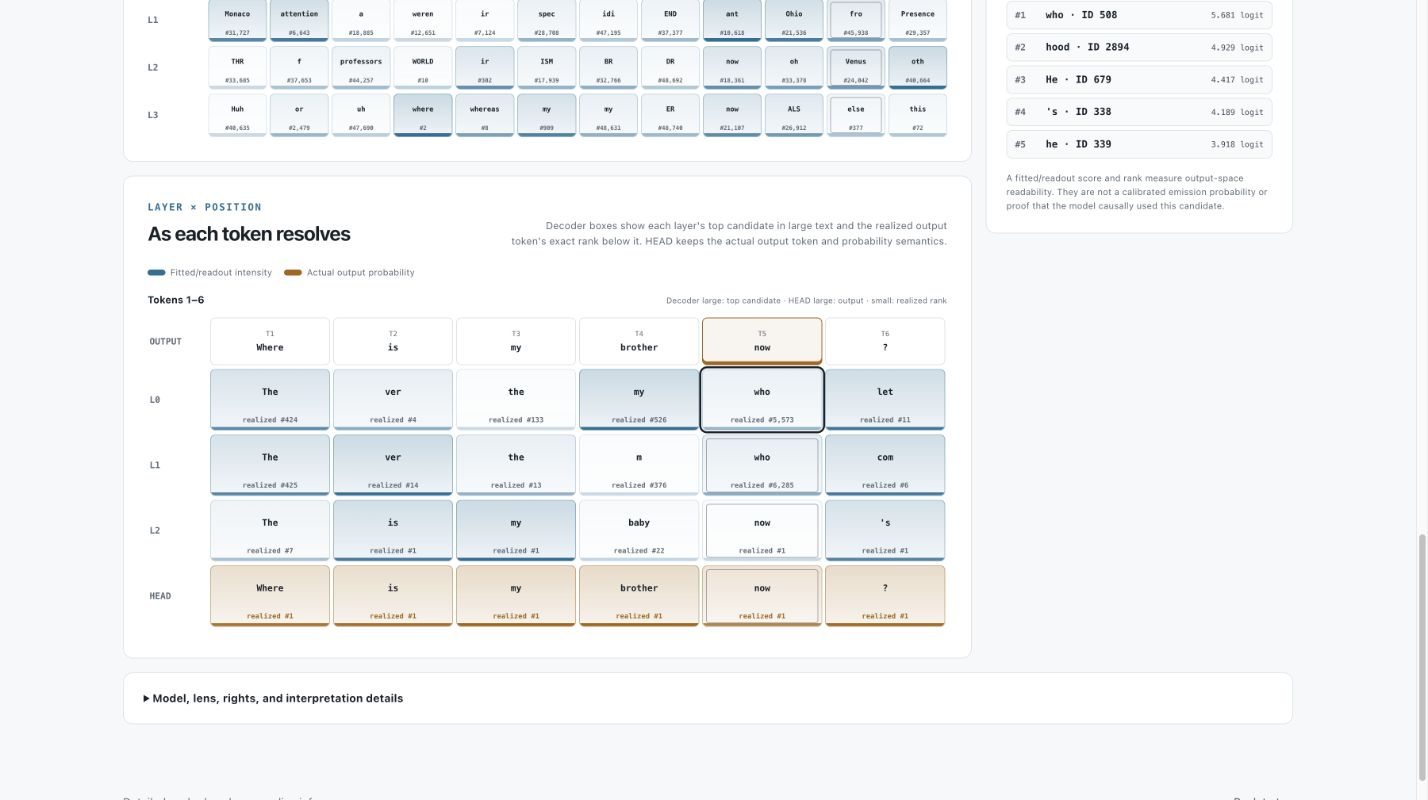
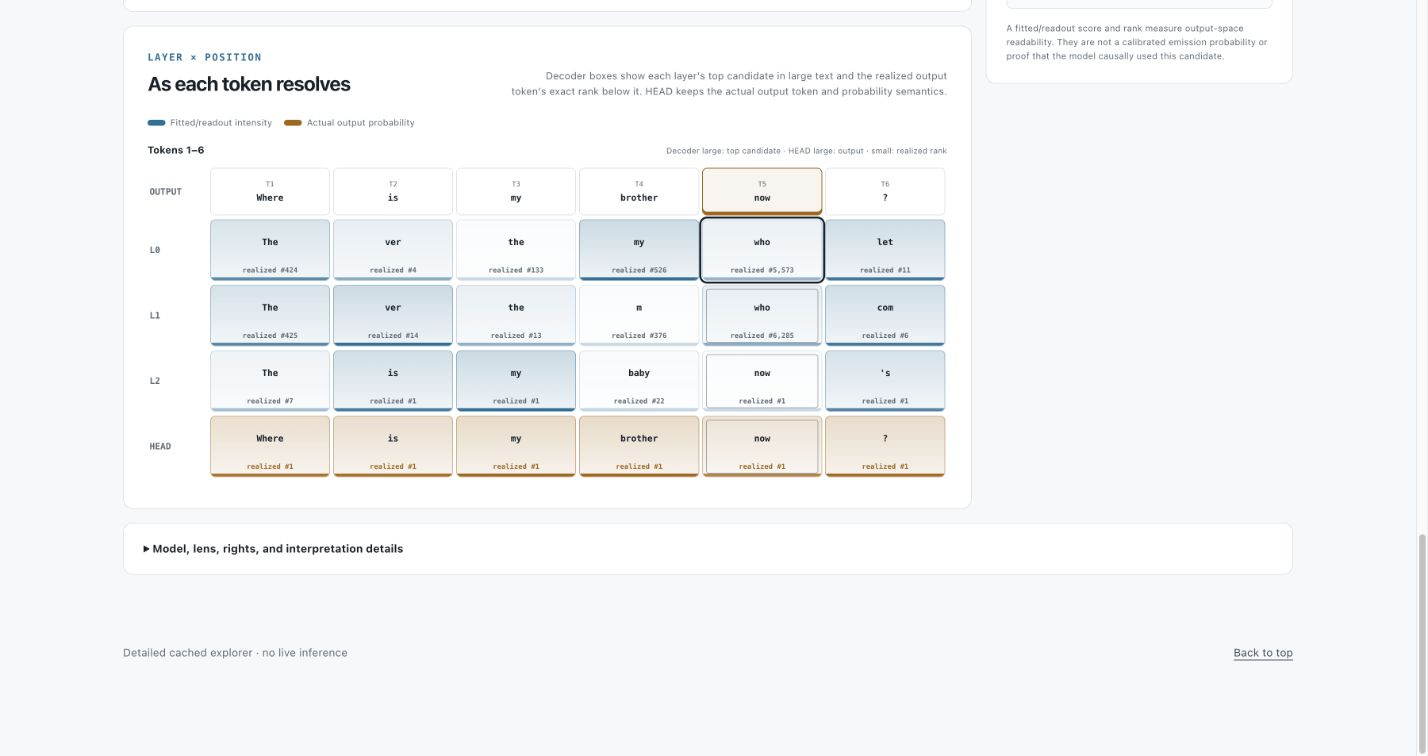
Refresh figures for 100ms ASR windows

diff --git a/notes/audio-jacobian-lens.md b/notes/audio-jacobian-lens.md
@@ -62,7 +62,7 @@ This is not a window into the model's thoughts. It is a familiar coordinate grid
 
 ### Different destinations form on different schedules
 
-In Whisper's decoder, some final words become visible surprisingly early. In one example, `door` was already ranked fourth in the first decoder layer I inspected and moved to first in the next. Other words take a longer route. In "Where is my brother now?", `now` appeared late; earlier, `who` was near the top.
+In Whisper's decoder, some final words become visible surprisingly early. In one example, `door` was already ranked fourth within the explorer's display vocabulary in the first decoder layer I inspected and moved to first in the next. Other words take a longer route. In "Where is my brother now?", `now` appeared late; earlier, `who` was near the top.
 
 It is tempting to say the model was "thinking of who." The evidence does not justify that. What it shows is simpler: lexical decisions form on different schedules. The resemblance to word-association experiments gives us a hypothesis to test, not proof of a human-like mechanism.
 
@@ -73,6 +73,8 @@ The encoder was harder to read. Looking for one highest-ranked word often produc
 The Phone Signature view instead compares a distributed pattern across 100 vocabulary-aligned coordinates with frozen phone prototypes. The result is closer to a constellation than a label: no single star gives the answer, but the arrangement carries information.
 
 At Whisper encoder layer 2, reading only the highest coordinate produced about 63.5% phone macro-F1. Reading the distributed pattern raised this to roughly 80% across independently fitted lenses.
+
+Those validation numbers come from aligned native 20 ms midpoint states. The public map groups five states into each phoneme-scale 100 ms display cell and advances by 80 ms, so neighboring cells share one state. A cell can still contain more than one phone; it is a visualization, not a separately validated 100 ms phone classifier or boundary detector.
 
 This does not mean the encoder literally stores phone symbols. The displayed phones are prototype similarities, not probabilities or causal labels. But the constellation preserves more phonetic structure than the single brightest coordinate.
 
@@ -156,7 +158,7 @@ The results below fall into two categories. The first section covers what the cu
 
 Some realized words become readable surprisingly early.
 
-In one held-out Whisper example, the realized token `door` moved from rank **#4** in the first decoder layer I inspected to **#1** one layer later.
+In one held-out Whisper example, the realized token `door` moved from rank **#4** within the explorer's display vocabulary in the first decoder layer I inspected to **#1** one layer later.
 
 But that is not the story for every word. In the utterance "Where is my brother now?", the realized token `now` moved:
 
@@ -185,6 +187,10 @@ But perhaps one BPE token was the wrong unit of analysis.
 
 Whisper's encoder is not choosing a word. It is building a continuous representation from acoustic frames. The new experimental **Phone Signature view** therefore looks at a distributed pattern across the top 100 vocabulary-aligned J-lens coordinates and compares that pattern with 34 frozen ARPAbet phone prototypes.
 
+The public explorer now uses phoneme-scale **100 ms display cells**. Each cell mean-pools five native 20 ms encoder states, and the 80 ms hop means adjacent cells share one state. A cell may still contain multiple phones, and the receptive field behind it is not local to those 100 ms.
+
+The validation numbers below come from phone-aligned **native 20 ms midpoint states**, not from the pooled 100 ms display cells. The public cell labels apply the same frozen prototypes after pooling, so they are a visualization rather than a separately validated 100 ms phone classifier.
+
 The preliminary speaker-disjoint development results are much stronger:
 
 - Phone information decoded directly from the encoder residual states rises to about **91% macro-F1 at L3**.
@@ -199,9 +205,9 @@ This view is closer to the kind of information we would expect an acoustic encod
 
 <figure class="note-figure">
   <a href="{{ '/assets/img/audio-jacobian-lens/phone-signature-view.png' | relative_url }}">
-    <img src="{{ '/assets/img/audio-jacobian-lens/phone-signature-view.png' | relative_url }}" alt="Audio Jacobian Lens Phone Signature view for the buzzer example. Four encoder layers show time-ordered ARPAbet phone prototypes, with an L3 B cell selected and its nearest alternatives shown in the inspector." loading="lazy" decoding="async">
+    <img src="{{ '/assets/img/audio-jacobian-lens/phone-signature-view.png' | relative_url }}" alt="Audio Jacobian Lens Phone Signature view for the buzzer example using 100 millisecond display cells. Encoder L3 from 0.56 to 0.66 seconds is selected, with B as the nearest prototype at cosine similarity 0.565." loading="lazy" decoding="async">
   </a>
-  <figcaption><strong>Figure 2.</strong> A time-ordered Phone Signature for the buzzer example. Each cell is the nearest frozen ARPAbet prototype derived from a distributed top-100 J-signature; the right-hand inspector shows the alternatives for one selected L3 window. These are similarities, not phone probabilities or causal labels. <a href="https://kennethli319.github.io/audio-jacobian-lens/?sample=asr-buzzer">Open the interactive report and switch on Phone Signature view</a>.</figcaption>
+  <figcaption><strong>Figure 2.</strong> A time-ordered Phone Signature using 100 ms display cells with an 80 ms hop. In the selected encoder-L3 window (0.56–0.66 s), <code>B</code> is the nearest frozen ARPAbet prototype (cosine 0.565; margin 0.479 over <code>AW</code>). Each cell comes from a distributed top-100 J-signature. These are similarities—not probabilities, framewise votes, phone boundaries, local-only receptive fields, or causal labels. <a href="https://kennethli319.github.io/audio-jacobian-lens/?sample=asr-buzzer">Open the interactive report and switch on Phone Signature view</a>.</figcaption>
 </figure>
 
 The Phone Signature result is still exploratory. The public cached explorer now exposes it as an opt-in diagnostic, while the locked test split and causal intervention gates remain open.